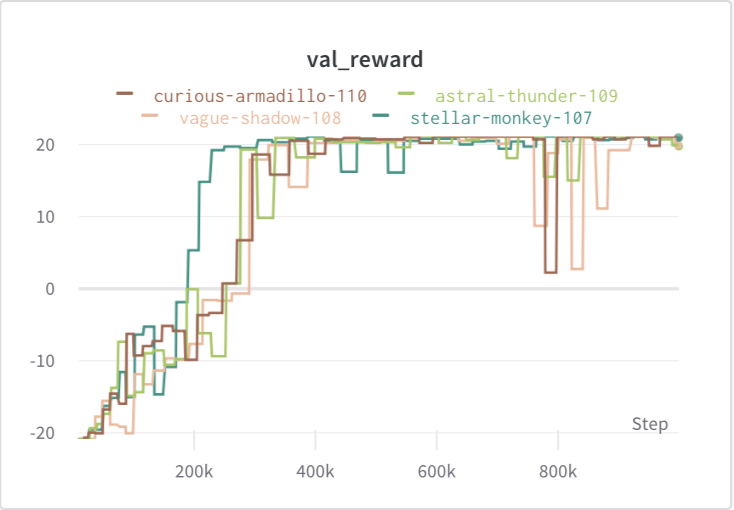
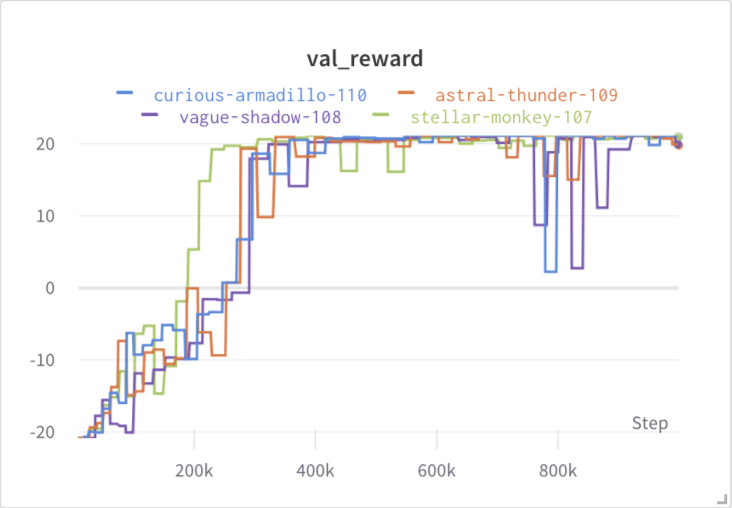
Changing figures colors

diff --git a/README.md b/README.md
@@ -44,11 +44,11 @@ Our proposed approach applies a simple modification to the DQN baseline. We use 
 - try ablation with masking out less things
 
 ### Results
-We tested 2 baselines - the solid green was the original simple DQN implementation as described in the original paper and the dashed green  was a DQN using a ResNet feature encoder. Both show good asymptotic performance, though there is slightly more consistency with the simple baseline. However, even though the simple baseline takes longer in terms of steps to converge, it reached convergence in 21 hours of wallclock time while the ResNet baseline reached convergence in 2 days of runtime. The simple baseline reached the best reward in about 600K steps.
+We tested 2 baselines - the grey was the original simple DQN implementation as described in the original paper and the brown  was a DQN using a ResNet feature encoder. Both show good asymptotic performance, though there is slightly more consistency with the simple baseline. However, even though the simple baseline takes longer in terms of steps to converge, it reached convergence in 21 hours of wallclock time while the ResNet baseline reached convergence in 2 days of runtime. The simple baseline reached the best reward in about 600K steps.
 
 ![baseline val results](assets/baselineval.png)
 
-We then used our approach to train a set of 4 autoencoders where each autoencoder had a different latent space size (16 is pale green, 32 is purple, 48 is yellow, and 64 is ice blue). The actual file size of each compression is 
+We then used our approach to train a set of 4 autoencoders where each autoencoder had a different latent space size (16 is green, 32 is purple, 48 is yellow, and 64 is blue). The actual file size of each compression is 
 
 ![](assets/nomaskval.png)
 
@@ -58,7 +58,7 @@ We did not see a significant change in how fast the DQN trained with each autoen
 
 In terms of wall time, the results were as expected. The DQNs using encoders with larger latent spaces in general took more time to train. This is due to the larger file size leading to more cache misses and the need to run a larger network for every game screen input. The difference between the slowest network and the fastest network in terms of wall clock time for 1M steps was about 5 hours (8:55 vs 13:59). The training time for each encoder was 33 minutes and took 25K steps. The total amount of time needed was about 9.5 hours in comparison to 21 hours for the fastest baseline.
 
-Similarly, we performed an ablation study to see how much of the game state we really needed to train a good DQN policy. We chose not to reconstruct the other player to see if our agent could still win the game. We thought that this would lead the agent to just return much better shots rather than trying to specifically aim away from the other agent. We again used our approach to train a set of 4 autoencoders where each autoencoder had a different latent space size (16 is teal, 32 is peach, 48 is green, and 64 is brown). The difference between these autoencoders and the previous set is that we did not wish to generate segmentations for the other agent using these. The actual file size of each compression is 
+Similarly, we performed an ablation study to see how much of the game state we really needed to train a good DQN policy. We chose not to reconstruct the other player to see if our agent could still win the game. We thought that this would lead the agent to just return much better shots rather than trying to specifically aim away from the other agent. We again used our approach to train a set of 4 autoencoders where each autoencoder had a different latent space size (16 is blue, 32 is orange, 48 is green, and 64 is purple). The difference between these autoencoders and the previous set is that we did not wish to generate segmentations for the other agent using these. The actual file size of each compression is 
 
 ![](assets/maskval.png)
 
